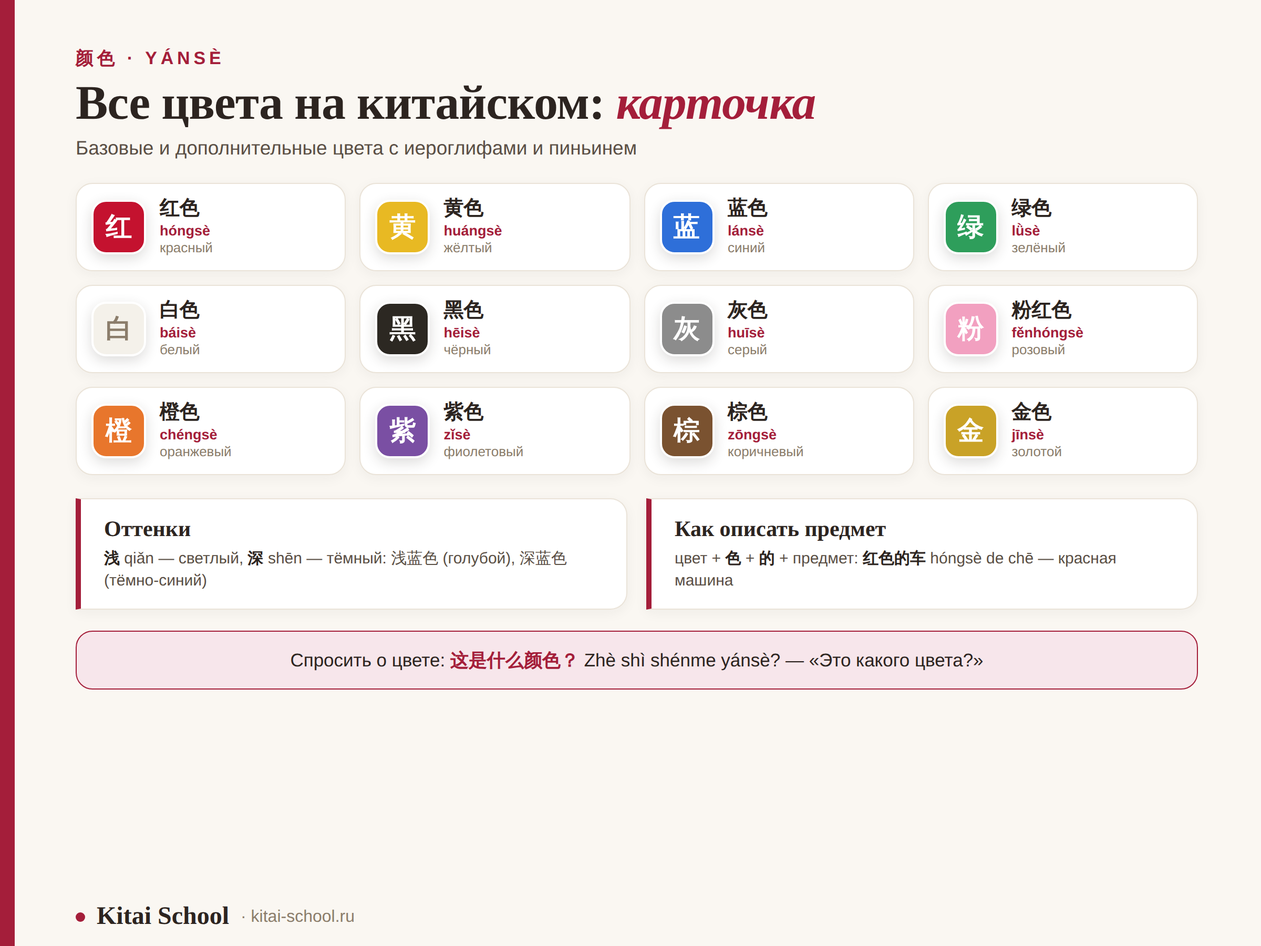
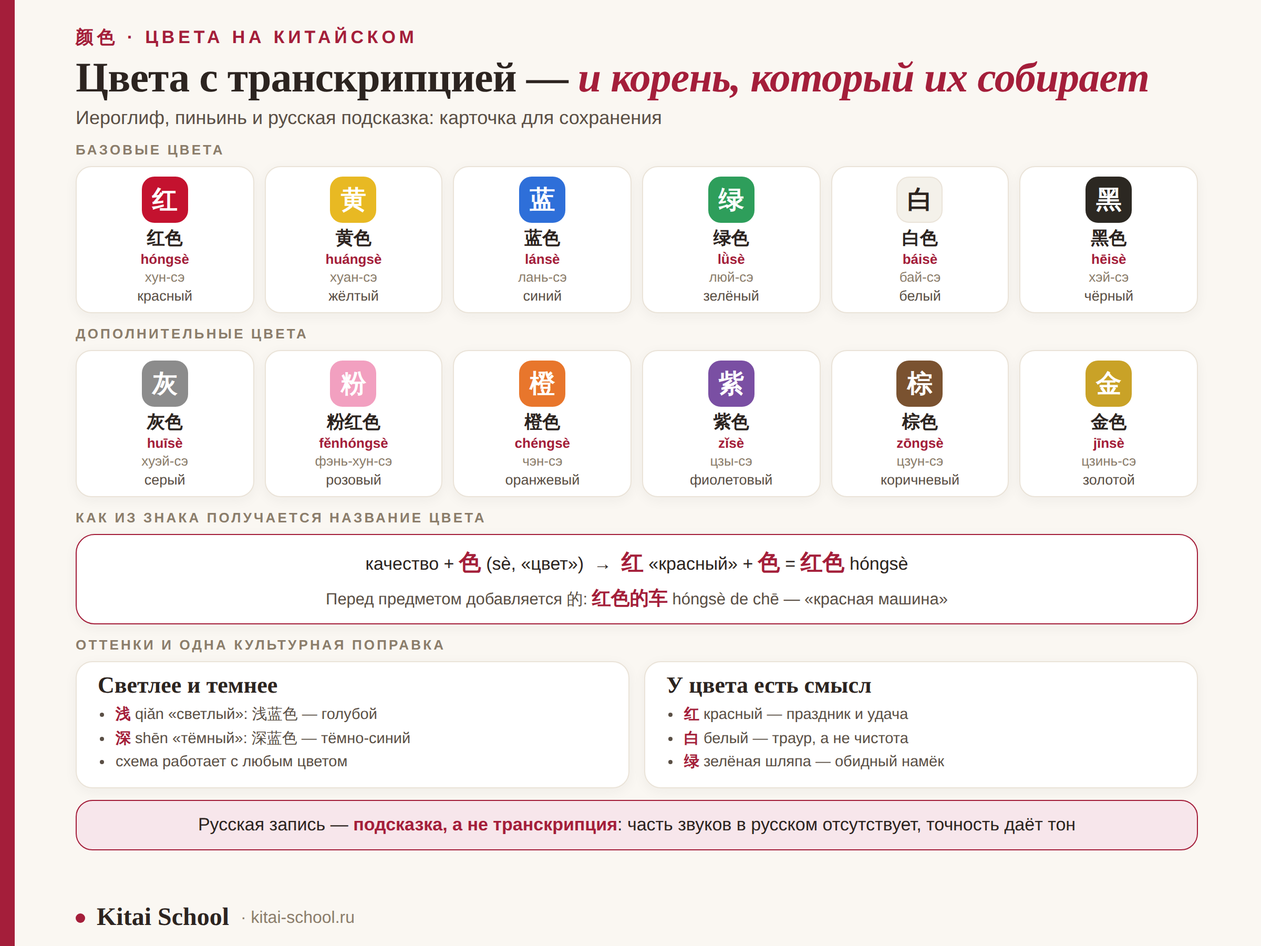
Цвета на китайском: русская транскрипция в таблицах, новые мета и картинки
Claude-Session: https://claude.ai/code/session_017dS7Wuw6MNB5fnZSr6hVh2

diff --git a/content/blog/cveta-na-kitajskom.html b/content/blog/cveta-na-kitajskom.html
@@ -4,19 +4,19 @@
 <meta charset="utf-8">
 <meta name="viewport" content="width=device-width, initial-scale=1">
 
-<title>Цвета на китайском языке: словарь с иероглифами и пиньинем</title>
-<meta name="description" content="Все цвета на китайском с иероглифами, пиньинем и переводом: белый, синий, красный и десятки оттенков. Таблица-карточка для сохранения, суффикс 色, светлые и тёмные оттенки с 浅 и 深 и как описывать предметы по цвету.">
+<title>Цвета на китайском с транскрипцией: как устроены названия через корень 色</title>
+<meta name="description" content="Большинство цветов в китайском образуются по схеме «качество + 色 (sè, цвет)»: 红色 красный, 蓝色 синий. Разбираем основные цвета с иероглифами и пиньинем, объясняем эту прозрачную логику и касаемся оттенков, у которых есть своя символика. С примерами.">
 <meta name="robots" content="index, follow, max-image-preview:large, max-snippet:-1">
 <meta name="author" content="Юлия Горяина">
-<meta name="keywords" content="цвета на китайском, все цвета на китайском, цвета на китайском языке с переводом, цвета на китайском иероглифы, белый по китайски, синий на китайском, красный на китайском">
+<meta name="keywords" content="цвета на китайском с транскрипцией, белый на китайском, цвета на китайском, цвета на китайском языке с переводом, цвета на китайском иероглифы, синий на китайском, красный на китайском">
 <meta name="theme-color" content="#A41E3A">
 <link rel="canonical" href="https://kitai-school.ru/article/cveta-na-kitajskom">
 
 <meta property="og:type" content="article">
 <meta property="og:site_name" content="Kitai School">
 <meta property="og:locale" content="ru_RU">
-<meta property="og:title" content="Цвета на китайском языке: словарь с иероглифами и пиньинем">
-<meta property="og:description" content="Все цвета на китайском с иероглифами и пиньинем, таблица для сохранения, суффикс 色, оттенки с 浅 и 深 и как описывать предметы по цвету.">
+<meta property="og:title" content="Цвета на китайском с транскрипцией">
+<meta property="og:description" content="Иероглиф, пиньинь и русская подсказка для каждого цвета — плюс логика корня 色, из которой собираются все названия.">
 <meta property="og:url" content="https://kitai-school.ru/article/cveta-na-kitajskom">
 <meta property="article:published_time" content="2026-08-09">
 <meta property="article:modified_time" content="2026-08-09">
@@ -27,8 +27,8 @@
 <meta property="article:tag" content="иероглифы">
 
 <meta name="twitter:card" content="summary_large_image">
-<meta name="twitter:title" content="Цвета на китайском языке: словарь с иероглифами и пиньинем">
-<meta name="twitter:description" content="Все цвета на китайском: таблица с иероглифами и пиньинем, суффикс 色, оттенки 浅 и 深 и описание предметов по цвету.">
+<meta name="twitter:title" content="Цвета на китайском с транскрипцией">
+<meta name="twitter:description" content="Иероглиф, пиньинь и русская подсказка для каждого цвета — плюс логика корня 色, из которой собираются все названия.">
 
 <script type="application/ld+json">
 {
@@ -37,7 +37,7 @@
     {
       "@type": "BlogPosting",
       "@id": "https://kitai-school.ru/article/cveta-na-kitajskom#article",
-      "headline": "Полный словарь цветов на китайском языке с иероглифами и пиньинем",
+      "headline": "Цвета на китайском с транскрипцией: как устроены названия через корень 色",
       "description": "Базовые и сложные цвета на китайском с иероглифами, пиньинем и переводом, суффикс 色, светлые и тёмные оттенки с 浅 и 深, а также правила описания предметов по цвету.",
       "inLanguage": "ru",
       "datePublished": "2026-08-09",
@@ -235,7 +235,7 @@
 
 <article>
 <p class="eyebrow">Лексика и произношение</p>
-<h1>Полный словарь цветов на китайском языке <span class="italic">с иероглифами и пиньинем</span></h1>
+<h1>Цвета на китайском с транскрипцией: <span class="italic">как устроены названия через корень 色</span></h1>
 
 <div class="byline">
   <a href="https://kitai-school.ru/about" target="_blank" rel="noopener"><img src="https://static.tildacdn.com/tild3265-6431-4361-a262-343162663636/DSC01652_1.jpg" alt="Юлия Горяина, основатель Kitai School"></a>
@@ -253,7 +253,7 @@
   <p>Слово «цвет» — <b>颜色</b> (yánsè). Базовые цвета: 红 hóng (красный), 黄 huáng (жёлтый), 蓝 lán (синий), 绿 lǜ (зелёный), 白 bái (белый), 黑 hēi (чёрный). В речи к ним добавляют <b>色</b> (sè): 红 → <b>红色</b>. Оттенки получаются с помощью <b>浅</b> (qiǎn, светлый) и <b>深</b> (shēn, тёмный): 浅蓝色, 深蓝色. Перед предметом ставят 的: <b>红色的车</b> — «красная машина».</p>
 </div>
 
-<h2>Слово «цвет» и <span class="italic">главный суффикс 色</span></h2>
+<h2>Слово «цвет» и <span class="italic">главный корень 色</span></h2>
 <p>Начнём с базы. Само слово «цвет» — <b class="han-big">颜色</b> (yánsè). А чтобы спросить «какого цвета?», используют 什么颜色 (shénme yánsè):</p>
 <div class="ks-quote">
   <p>这是什么颜色？<br>Zhè shì shénme yánsè? — «Это какого цвета?»</p>
@@ -278,17 +278,18 @@
 <div class="table-wrap">
 <table>
   <caption>Основные цвета на китайском с иероглифами и пиньинем.</caption>
-  <thead><tr><th>Цвет</th><th>Иероглиф</th><th>Пиньинь</th><th>Полная форма</th></tr></thead>
+  <thead><tr><th>Цвет</th><th>Иероглиф</th><th>Пиньинь</th><th>Полная форма</th><th>Примерно по-русски</th></tr></thead>
   <tbody>
-    <tr><td><span class="sw" style="background:#C4122F"></span>Красный</td><td class="han-cell">红</td><td>hóng</td><td>红色 hóngsè</td></tr>
-    <tr><td><span class="sw" style="background:#E8B923"></span>Жёлтый</td><td class="han-cell">黄</td><td>huáng</td><td>黄色 huángsè</td></tr>
-    <tr><td><span class="sw" style="background:#2E6FD9"></span>Синий</td><td class="han-cell">蓝</td><td>lán</td><td>蓝色 lánsè</td></tr>
-    <tr><td><span class="sw" style="background:#2E9E5B"></span>Зелёный</td><td class="han-cell">绿</td><td>lǜ</td><td>绿色 lǜsè</td></tr>
-    <tr><td><span class="sw" style="background:#F4F1EA"></span>Белый</td><td class="han-cell">白</td><td>bái</td><td>白色 báisè</td></tr>
-    <tr><td><span class="sw" style="background:#2C2822"></span>Чёрный</td><td class="han-cell">黑</td><td>hēi</td><td>黑色 hēisè</td></tr>
+    <tr><td><span class="sw" style="background:#C4122F"></span>Красный</td><td class="han-cell">红</td><td>hóng</td><td>红色 hóngsè</td><td>хун-сэ</td></tr>
+    <tr><td><span class="sw" style="background:#E8B923"></span>Жёлтый</td><td class="han-cell">黄</td><td>huáng</td><td>黄色 huángsè</td><td>хуан-сэ</td></tr>
+    <tr><td><span class="sw" style="background:#2E6FD9"></span>Синий</td><td class="han-cell">蓝</td><td>lán</td><td>蓝色 lánsè</td><td>лань-сэ</td></tr>
+    <tr><td><span class="sw" style="background:#2E9E5B"></span>Зелёный</td><td class="han-cell">绿</td><td>lǜ</td><td>绿色 lǜsè</td><td>люй-сэ</td></tr>
+    <tr><td><span class="sw" style="background:#F4F1EA"></span>Белый</td><td class="han-cell">白</td><td>bái</td><td>白色 báisè</td><td>бай-сэ</td></tr>
+    <tr><td><span class="sw" style="background:#2C2822"></span>Чёрный</td><td class="han-cell">黑</td><td>hēi</td><td>黑色 hēisè</td><td>хэй-сэ</td></tr>
   </tbody>
 </table>
 </div>
+<p class="note">Колонка «примерно по-русски» — это <b>подсказка, а не транскрипция</b>. Части китайских звуков в русском просто нет, и точность даёт не запись буквами, а тон и живая речь. Пользуйтесь ею в первые дни, а дальше опирайтесь на пиньинь и слух. Само слово «цвет» — 颜色 (yánsè), по-русски примерно «янь-сэ».</p>
 <p class="note">Обратите внимание на <b>绿 (lǜ)</b>: здесь тот самый гласный <b>ü</b> — губы складываем для «у», а произносим «и». Если сказать «лу», получится другое слово. Как ставить такие звуки, разбирали в статье про <a href="https://kitai-school.ru/article/korrektirovka-proiznosheniya-v-kitayskom" target="_blank" rel="noopener">корректировку произношения</a>.</p>
 
 <h2>Дополнительные цвета <span class="italic">и оттенки</span></h2>
@@ -296,16 +297,16 @@
 <div class="table-wrap">
 <table>
   <caption>Дополнительные цвета: серый, розовый, оранжевый и другие.</caption>
-  <thead><tr><th>Цвет</th><th>Иероглифы</th><th>Пиньинь</th><th>Из чего состоит</th></tr></thead>
+  <thead><tr><th>Цвет</th><th>Иероглифы</th><th>Пиньинь</th><th>Примерно по-русски</th><th>Из чего состоит</th></tr></thead>
   <tbody>
-    <tr><td><span class="sw" style="background:#8C8C8C"></span>Серый</td><td class="han-cell">灰色</td><td>huīsè</td><td>灰 — «пепел, зола»</td></tr>
-    <tr><td><span class="sw" style="background:#F2A0C0"></span>Розовый</td><td class="han-cell">粉红色</td><td>fěnhóngsè</td><td>粉 «пудра» + 红 «красный»</td></tr>
-    <tr><td><span class="sw" style="background:#E8762C"></span>Оранжевый</td><td class="han-cell">橙色</td><td>chéngsè</td><td>橙 — «апельсин»</td></tr>
-    <tr><td><span class="sw" style="background:#7A4FA3"></span>Фиолетовый</td><td class="han-cell">紫色</td><td>zǐsè</td><td>紫 — «пурпур»</td></tr>
-    <tr><td><span class="sw" style="background:#7A5230"></span>Коричневый</td><td class="han-cell">棕色</td><td>zōngsè</td><td>棕 — «пальмовое волокно»</td></tr>
-    <tr><td><span class="sw" style="background:#C9A227"></span>Золотой</td><td class="han-cell">金色</td><td>jīnsè</td><td>金 — «золото, металл»</td></tr>
-    <tr><td><span class="sw" style="background:#B8BCC0"></span>Серебряный</td><td class="han-cell">银色</td><td>yínsè</td><td>银 — «серебро»</td></tr>
-    <tr><td><span class="sw" style="background:#8FBF6A"></span>Сине-зелёный</td><td class="han-cell">青色</td><td>qīngsè</td><td>青 — старое слово «синий/зелёный»</td></tr>
+    <tr><td><span class="sw" style="background:#8C8C8C"></span>Серый</td><td class="han-cell">灰色</td><td>huīsè</td><td>хуэй-сэ</td><td>灰 — «пепел, зола»</td></tr>
+    <tr><td><span class="sw" style="background:#F2A0C0"></span>Розовый</td><td class="han-cell">粉红色</td><td>fěnhóngsè</td><td>фэнь-хун-сэ</td><td>粉 «пудра» + 红 «красный»</td></tr>
+    <tr><td><span class="sw" style="background:#E8762C"></span>Оранжевый</td><td class="han-cell">橙色</td><td>chéngsè</td><td>чэн-сэ</td><td>橙 — «апельсин»</td></tr>
+    <tr><td><span class="sw" style="background:#7A4FA3"></span>Фиолетовый</td><td class="han-cell">紫色</td><td>zǐsè</td><td>цзы-сэ</td><td>紫 — «пурпур»</td></tr>
+    <tr><td><span class="sw" style="background:#7A5230"></span>Коричневый</td><td class="han-cell">棕色</td><td>zōngsè</td><td>цзун-сэ</td><td>棕 — «пальмовое волокно»</td></tr>
+    <tr><td><span class="sw" style="background:#C9A227"></span>Золотой</td><td class="han-cell">金色</td><td>jīnsè</td><td>цзинь-сэ</td><td>金 — «золото, металл»</td></tr>
+    <tr><td><span class="sw" style="background:#B8BCC0"></span>Серебряный</td><td class="han-cell">银色</td><td>yínsè</td><td>инь-сэ</td><td>银 — «серебро»</td></tr>
+    <tr><td><span class="sw" style="background:#8FBF6A"></span>Сине-зелёный</td><td class="han-cell">青色</td><td>qīngsè</td><td>цин-сэ</td><td>青 — старое слово «синий/зелёный»</td></tr>
   </tbody>
 </table>
 </div>

diff --git a/content/blog/cveta-na-kitajskom.TILDA.html b/content/blog/cveta-na-kitajskom.TILDA.html
@@ -124,7 +124,7 @@
     {
       "@type": "BlogPosting",
       "@id": "https://kitai-school.ru/article/cveta-na-kitajskom#article",
-      "headline": "Полный словарь цветов на китайском языке с иероглифами и пиньинем",
+      "headline": "Цвета на китайском с транскрипцией: как устроены названия через корень 色",
       "description": "Базовые и сложные цвета на китайском с иероглифами, пиньинем и переводом, суффикс 色, светлые и тёмные оттенки с 浅 и 深, а также правила описания предметов по цвету.",
       "inLanguage": "ru",
       "datePublished": "2026-08-09",
@@ -197,7 +197,7 @@
 
 <article>
 <p class="eyebrow">Лексика и произношение</p>
-<h1>Полный словарь цветов на китайском языке <span class="italic">с иероглифами и пиньинем</span></h1>
+<h1>Цвета на китайском с транскрипцией: <span class="italic">как устроены названия через корень 色</span></h1>
 
 <div class="byline">
   <a href="https://kitai-school.ru/about" target="_blank" rel="noopener"><img src="https://static.tildacdn.com/tild3265-6431-4361-a262-343162663636/DSC01652_1.jpg" alt="Юлия Горяина, основатель Kitai School"></a>
@@ -215,7 +215,7 @@
   <p>Слово «цвет» — <b>颜色</b> (yánsè). Базовые цвета: 红 hóng (красный), 黄 huáng (жёлтый), 蓝 lán (синий), 绿 lǜ (зелёный), 白 bái (белый), 黑 hēi (чёрный). В речи к ним добавляют <b>色</b> (sè): 红 → <b>红色</b>. Оттенки получаются с помощью <b>浅</b> (qiǎn, светлый) и <b>深</b> (shēn, тёмный): 浅蓝色, 深蓝色. Перед предметом ставят 的: <b>红色的车</b> — «красная машина».</p>
 </div>
 
-<h2>Слово «цвет» и <span class="italic">главный суффикс 色</span></h2>
+<h2>Слово «цвет» и <span class="italic">главный корень 色</span></h2>
 <p>Начнём с базы. Само слово «цвет» — <b class="han-big">颜色</b> (yánsè). А чтобы спросить «какого цвета?», используют 什么颜色 (shénme yánsè):</p>
 <div class="ks-quote">
   <p>这是什么颜色？<br>Zhè shì shénme yánsè? — «Это какого цвета?»</p>
@@ -240,17 +240,18 @@
 <div class="table-wrap">
 <table>
   <caption>Основные цвета на китайском с иероглифами и пиньинем.</caption>
-  <thead><tr><th>Цвет</th><th>Иероглиф</th><th>Пиньинь</th><th>Полная форма</th></tr></thead>
+  <thead><tr><th>Цвет</th><th>Иероглиф</th><th>Пиньинь</th><th>Полная форма</th><th>Примерно по-русски</th></tr></thead>
   <tbody>
-    <tr><td><span class="sw" style="background:#C4122F"></span>Красный</td><td class="han-cell">红</td><td>hóng</td><td>红色 hóngsè</td></tr>
-    <tr><td><span class="sw" style="background:#E8B923"></span>Жёлтый</td><td class="han-cell">黄</td><td>huáng</td><td>黄色 huángsè</td></tr>
-    <tr><td><span class="sw" style="background:#2E6FD9"></span>Синий</td><td class="han-cell">蓝</td><td>lán</td><td>蓝色 lánsè</td></tr>
-    <tr><td><span class="sw" style="background:#2E9E5B"></span>Зелёный</td><td class="han-cell">绿</td><td>lǜ</td><td>绿色 lǜsè</td></tr>
-    <tr><td><span class="sw" style="background:#F4F1EA"></span>Белый</td><td class="han-cell">白</td><td>bái</td><td>白色 báisè</td></tr>
-    <tr><td><span class="sw" style="background:#2C2822"></span>Чёрный</td><td class="han-cell">黑</td><td>hēi</td><td>黑色 hēisè</td></tr>
+    <tr><td><span class="sw" style="background:#C4122F"></span>Красный</td><td class="han-cell">红</td><td>hóng</td><td>红色 hóngsè</td><td>хун-сэ</td></tr>
+    <tr><td><span class="sw" style="background:#E8B923"></span>Жёлтый</td><td class="han-cell">黄</td><td>huáng</td><td>黄色 huángsè</td><td>хуан-сэ</td></tr>
+    <tr><td><span class="sw" style="background:#2E6FD9"></span>Синий</td><td class="han-cell">蓝</td><td>lán</td><td>蓝色 lánsè</td><td>лань-сэ</td></tr>
+    <tr><td><span class="sw" style="background:#2E9E5B"></span>Зелёный</td><td class="han-cell">绿</td><td>lǜ</td><td>绿色 lǜsè</td><td>люй-сэ</td></tr>
+    <tr><td><span class="sw" style="background:#F4F1EA"></span>Белый</td><td class="han-cell">白</td><td>bái</td><td>白色 báisè</td><td>бай-сэ</td></tr>
+    <tr><td><span class="sw" style="background:#2C2822"></span>Чёрный</td><td class="han-cell">黑</td><td>hēi</td><td>黑色 hēisè</td><td>хэй-сэ</td></tr>
   </tbody>
 </table>
 </div>
+<p class="note">Колонка «примерно по-русски» — это <b>подсказка, а не транскрипция</b>. Части китайских звуков в русском просто нет, и точность даёт не запись буквами, а тон и живая речь. Пользуйтесь ею в первые дни, а дальше опирайтесь на пиньинь и слух. Само слово «цвет» — 颜色 (yánsè), по-русски примерно «янь-сэ».</p>
 <p class="note">Обратите внимание на <b>绿 (lǜ)</b>: здесь тот самый гласный <b>ü</b> — губы складываем для «у», а произносим «и». Если сказать «лу», получится другое слово. Как ставить такие звуки, разбирали в статье про <a href="https://kitai-school.ru/article/korrektirovka-proiznosheniya-v-kitayskom" target="_blank" rel="noopener">корректировку произношения</a>.</p>
 
 <h2>Дополнительные цвета <span class="italic">и оттенки</span></h2>
@@ -258,16 +259,16 @@
 <div class="table-wrap">
 <table>
   <caption>Дополнительные цвета: серый, розовый, оранжевый и другие.</caption>
-  <thead><tr><th>Цвет</th><th>Иероглифы</th><th>Пиньинь</th><th>Из чего состоит</th></tr></thead>
+  <thead><tr><th>Цвет</th><th>Иероглифы</th><th>Пиньинь</th><th>Примерно по-русски</th><th>Из чего состоит</th></tr></thead>
   <tbody>
-    <tr><td><span class="sw" style="background:#8C8C8C"></span>Серый</td><td class="han-cell">灰色</td><td>huīsè</td><td>灰 — «пепел, зола»</td></tr>
-    <tr><td><span class="sw" style="background:#F2A0C0"></span>Розовый</td><td class="han-cell">粉红色</td><td>fěnhóngsè</td><td>粉 «пудра» + 红 «красный»</td></tr>
-    <tr><td><span class="sw" style="background:#E8762C"></span>Оранжевый</td><td class="han-cell">橙色</td><td>chéngsè</td><td>橙 — «апельсин»</td></tr>
-    <tr><td><span class="sw" style="background:#7A4FA3"></span>Фиолетовый</td><td class="han-cell">紫色</td><td>zǐsè</td><td>紫 — «пурпур»</td></tr>
-    <tr><td><span class="sw" style="background:#7A5230"></span>Коричневый</td><td class="han-cell">棕色</td><td>zōngsè</td><td>棕 — «пальмовое волокно»</td></tr>
-    <tr><td><span class="sw" style="background:#C9A227"></span>Золотой</td><td class="han-cell">金色</td><td>jīnsè</td><td>金 — «золото, металл»</td></tr>
-    <tr><td><span class="sw" style="background:#B8BCC0"></span>Серебряный</td><td class="han-cell">银色</td><td>yínsè</td><td>银 — «серебро»</td></tr>
-    <tr><td><span class="sw" style="background:#8FBF6A"></span>Сине-зелёный</td><td class="han-cell">青色</td><td>qīngsè</td><td>青 — старое слово «синий/зелёный»</td></tr>
+    <tr><td><span class="sw" style="background:#8C8C8C"></span>Серый</td><td class="han-cell">灰色</td><td>huīsè</td><td>хуэй-сэ</td><td>灰 — «пепел, зола»</td></tr>
+    <tr><td><span class="sw" style="background:#F2A0C0"></span>Розовый</td><td class="han-cell">粉红色</td><td>fěnhóngsè</td><td>фэнь-хун-сэ</td><td>粉 «пудра» + 红 «красный»</td></tr>
+    <tr><td><span class="sw" style="background:#E8762C"></span>Оранжевый</td><td class="han-cell">橙色</td><td>chéngsè</td><td>чэн-сэ</td><td>橙 — «апельсин»</td></tr>
+    <tr><td><span class="sw" style="background:#7A4FA3"></span>Фиолетовый</td><td class="han-cell">紫色</td><td>zǐsè</td><td>цзы-сэ</td><td>紫 — «пурпур»</td></tr>
+    <tr><td><span class="sw" style="background:#7A5230"></span>Коричневый</td><td class="han-cell">棕色</td><td>zōngsè</td><td>цзун-сэ</td><td>棕 — «пальмовое волокно»</td></tr>
+    <tr><td><span class="sw" style="background:#C9A227"></span>Золотой</td><td class="han-cell">金色</td><td>jīnsè</td><td>цзинь-сэ</td><td>金 — «золото, металл»</td></tr>
+    <tr><td><span class="sw" style="background:#B8BCC0"></span>Серебряный</td><td class="han-cell">银色</td><td>yínsè</td><td>инь-сэ</td><td>银 — «серебро»</td></tr>
+    <tr><td><span class="sw" style="background:#8FBF6A"></span>Сине-зелёный</td><td class="han-cell">青色</td><td>qīngsè</td><td>цин-сэ</td><td>青 — старое слово «синий/зелёный»</td></tr>
   </tbody>
 </table>
 </div>

diff --git a/content/blog/cveta-na-kitajskom.TILDA-BLOCK.html b/content/blog/cveta-na-kitajskom.TILDA-BLOCK.html
@@ -126,7 +126,7 @@
 
 <article>
 <p class="eyebrow">Лексика и произношение</p>
-<h1>Полный словарь цветов на китайском языке <span class="italic">с иероглифами и пиньинем</span></h1>
+<h1>Цвета на китайском с транскрипцией: <span class="italic">как устроены названия через корень 色</span></h1>
 
 <div class="byline">
   <a href="https://kitai-school.ru/about" target="_blank" rel="noopener"><img src="https://static.tildacdn.com/tild3265-6431-4361-a262-343162663636/DSC01652_1.jpg" alt="Юлия Горяина, основатель Kitai School"></a>
@@ -144,7 +144,7 @@
   <p>Слово «цвет» — <b>颜色</b> (yánsè). Базовые цвета: 红 hóng (красный), 黄 huáng (жёлтый), 蓝 lán (синий), 绿 lǜ (зелёный), 白 bái (белый), 黑 hēi (чёрный). В речи к ним добавляют <b>色</b> (sè): 红 → <b>红色</b>. Оттенки получаются с помощью <b>浅</b> (qiǎn, светлый) и <b>深</b> (shēn, тёмный): 浅蓝色, 深蓝色. Перед предметом ставят 的: <b>红色的车</b> — «красная машина».</p>
 </div>
 
-<h2>Слово «цвет» и <span class="italic">главный суффикс 色</span></h2>
+<h2>Слово «цвет» и <span class="italic">главный корень 色</span></h2>
 <p>Начнём с базы. Само слово «цвет» — <b class="han-big">颜色</b> (yánsè). А чтобы спросить «какого цвета?», используют 什么颜色 (shénme yánsè):</p>
 <div class="ks-quote">
   <p>这是什么颜色？<br>Zhè shì shénme yánsè? — «Это какого цвета?»</p>
@@ -169,17 +169,18 @@
 <div class="table-wrap">
 <table>
   <caption>Основные цвета на китайском с иероглифами и пиньинем.</caption>
-  <thead><tr><th>Цвет</th><th>Иероглиф</th><th>Пиньинь</th><th>Полная форма</th></tr></thead>
+  <thead><tr><th>Цвет</th><th>Иероглиф</th><th>Пиньинь</th><th>Полная форма</th><th>Примерно по-русски</th></tr></thead>
   <tbody>
-    <tr><td><span class="sw" style="background:#C4122F"></span>Красный</td><td class="han-cell">红</td><td>hóng</td><td>红色 hóngsè</td></tr>
-    <tr><td><span class="sw" style="background:#E8B923"></span>Жёлтый</td><td class="han-cell">黄</td><td>huáng</td><td>黄色 huángsè</td></tr>
-    <tr><td><span class="sw" style="background:#2E6FD9"></span>Синий</td><td class="han-cell">蓝</td><td>lán</td><td>蓝色 lánsè</td></tr>
-    <tr><td><span class="sw" style="background:#2E9E5B"></span>Зелёный</td><td class="han-cell">绿</td><td>lǜ</td><td>绿色 lǜsè</td></tr>
-    <tr><td><span class="sw" style="background:#F4F1EA"></span>Белый</td><td class="han-cell">白</td><td>bái</td><td>白色 báisè</td></tr>
-    <tr><td><span class="sw" style="background:#2C2822"></span>Чёрный</td><td class="han-cell">黑</td><td>hēi</td><td>黑色 hēisè</td></tr>
+    <tr><td><span class="sw" style="background:#C4122F"></span>Красный</td><td class="han-cell">红</td><td>hóng</td><td>红色 hóngsè</td><td>хун-сэ</td></tr>
+    <tr><td><span class="sw" style="background:#E8B923"></span>Жёлтый</td><td class="han-cell">黄</td><td>huáng</td><td>黄色 huángsè</td><td>хуан-сэ</td></tr>
+    <tr><td><span class="sw" style="background:#2E6FD9"></span>Синий</td><td class="han-cell">蓝</td><td>lán</td><td>蓝色 lánsè</td><td>лань-сэ</td></tr>
+    <tr><td><span class="sw" style="background:#2E9E5B"></span>Зелёный</td><td class="han-cell">绿</td><td>lǜ</td><td>绿色 lǜsè</td><td>люй-сэ</td></tr>
+    <tr><td><span class="sw" style="background:#F4F1EA"></span>Белый</td><td class="han-cell">白</td><td>bái</td><td>白色 báisè</td><td>бай-сэ</td></tr>
+    <tr><td><span class="sw" style="background:#2C2822"></span>Чёрный</td><td class="han-cell">黑</td><td>hēi</td><td>黑色 hēisè</td><td>хэй-сэ</td></tr>
   </tbody>
 </table>
 </div>
+<p class="note">Колонка «примерно по-русски» — это <b>подсказка, а не транскрипция</b>. Части китайских звуков в русском просто нет, и точность даёт не запись буквами, а тон и живая речь. Пользуйтесь ею в первые дни, а дальше опирайтесь на пиньинь и слух. Само слово «цвет» — 颜色 (yánsè), по-русски примерно «янь-сэ».</p>
 <p class="note">Обратите внимание на <b>绿 (lǜ)</b>: здесь тот самый гласный <b>ü</b> — губы складываем для «у», а произносим «и». Если сказать «лу», получится другое слово. Как ставить такие звуки, разбирали в статье про <a href="https://kitai-school.ru/article/korrektirovka-proiznosheniya-v-kitayskom" target="_blank" rel="noopener">корректировку произношения</a>.</p>
 
 <h2>Дополнительные цвета <span class="italic">и оттенки</span></h2>
@@ -187,16 +188,16 @@
 <div class="table-wrap">
 <table>
   <caption>Дополнительные цвета: серый, розовый, оранжевый и другие.</caption>
-  <thead><tr><th>Цвет</th><th>Иероглифы</th><th>Пиньинь</th><th>Из чего состоит</th></tr></thead>
+  <thead><tr><th>Цвет</th><th>Иероглифы</th><th>Пиньинь</th><th>Примерно по-русски</th><th>Из чего состоит</th></tr></thead>
   <tbody>
-    <tr><td><span class="sw" style="background:#8C8C8C"></span>Серый</td><td class="han-cell">灰色</td><td>huīsè</td><td>灰 — «пепел, зола»</td></tr>
-    <tr><td><span class="sw" style="background:#F2A0C0"></span>Розовый</td><td class="han-cell">粉红色</td><td>fěnhóngsè</td><td>粉 «пудра» + 红 «красный»</td></tr>
-    <tr><td><span class="sw" style="background:#E8762C"></span>Оранжевый</td><td class="han-cell">橙色</td><td>chéngsè</td><td>橙 — «апельсин»</td></tr>
-    <tr><td><span class="sw" style="background:#7A4FA3"></span>Фиолетовый</td><td class="han-cell">紫色</td><td>zǐsè</td><td>紫 — «пурпур»</td></tr>
-    <tr><td><span class="sw" style="background:#7A5230"></span>Коричневый</td><td class="han-cell">棕色</td><td>zōngsè</td><td>棕 — «пальмовое волокно»</td></tr>
-    <tr><td><span class="sw" style="background:#C9A227"></span>Золотой</td><td class="han-cell">金色</td><td>jīnsè</td><td>金 — «золото, металл»</td></tr>
-    <tr><td><span class="sw" style="background:#B8BCC0"></span>Серебряный</td><td class="han-cell">银色</td><td>yínsè</td><td>银 — «серебро»</td></tr>
-    <tr><td><span class="sw" style="background:#8FBF6A"></span>Сине-зелёный</td><td class="han-cell">青色</td><td>qīngsè</td><td>青 — старое слово «синий/зелёный»</td></tr>
+    <tr><td><span class="sw" style="background:#8C8C8C"></span>Серый</td><td class="han-cell">灰色</td><td>huīsè</td><td>хуэй-сэ</td><td>灰 — «пепел, зола»</td></tr>
+    <tr><td><span class="sw" style="background:#F2A0C0"></span>Розовый</td><td class="han-cell">粉红色</td><td>fěnhóngsè</td><td>фэнь-хун-сэ</td><td>粉 «пудра» + 红 «красный»</td></tr>
+    <tr><td><span class="sw" style="background:#E8762C"></span>Оранжевый</td><td class="han-cell">橙色</td><td>chéngsè</td><td>чэн-сэ</td><td>橙 — «апельсин»</td></tr>
+    <tr><td><span class="sw" style="background:#7A4FA3"></span>Фиолетовый</td><td class="han-cell">紫色</td><td>zǐsè</td><td>цзы-сэ</td><td>紫 — «пурпур»</td></tr>
+    <tr><td><span class="sw" style="background:#7A5230"></span>Коричневый</td><td class="han-cell">棕色</td><td>zōngsè</td><td>цзун-сэ</td><td>棕 — «пальмовое волокно»</td></tr>
+    <tr><td><span class="sw" style="background:#C9A227"></span>Золотой</td><td class="han-cell">金色</td><td>jīnsè</td><td>цзинь-сэ</td><td>金 — «золото, металл»</td></tr>
+    <tr><td><span class="sw" style="background:#B8BCC0"></span>Серебряный</td><td class="han-cell">银色</td><td>yínsè</td><td>инь-сэ</td><td>银 — «серебро»</td></tr>
+    <tr><td><span class="sw" style="background:#8FBF6A"></span>Сине-зелёный</td><td class="han-cell">青色</td><td>qīngsè</td><td>цин-сэ</td><td>青 — старое слово «синий/зелёный»</td></tr>
   </tbody>
 </table>
 </div>

diff --git a/content/blog/cveta-na-kitajskom.TILDA-HEAD.html b/content/blog/cveta-na-kitajskom.TILDA-HEAD.html
@@ -1,19 +1,19 @@
 <meta charset="utf-8">
 <meta name="viewport" content="width=device-width, initial-scale=1">
 
-<title>Цвета на китайском языке: словарь с иероглифами и пиньинем</title>
-<meta name="description" content="Все цвета на китайском с иероглифами, пиньинем и переводом: белый, синий, красный и десятки оттенков. Таблица-карточка для сохранения, суффикс 色, светлые и тёмные оттенки с 浅 и 深 и как описывать предметы по цвету.">
+<title>Цвета на китайском с транскрипцией: как устроены названия через корень 色</title>
+<meta name="description" content="Большинство цветов в китайском образуются по схеме «качество + 色 (sè, цвет)»: 红色 красный, 蓝色 синий. Разбираем основные цвета с иероглифами и пиньинем, объясняем эту прозрачную логику и касаемся оттенков, у которых есть своя символика. С примерами.">
 <meta name="robots" content="index, follow, max-image-preview:large, max-snippet:-1">
 <meta name="author" content="Юлия Горяина">
-<meta name="keywords" content="цвета на китайском, все цвета на китайском, цвета на китайском языке с переводом, цвета на китайском иероглифы, белый по китайски, синий на китайском, красный на китайском">
+<meta name="keywords" content="цвета на китайском с транскрипцией, белый на китайском, цвета на китайском, цвета на китайском языке с переводом, цвета на китайском иероглифы, синий на китайском, красный на китайском">
 <meta name="theme-color" content="#A41E3A">
 <link rel="canonical" href="https://kitai-school.ru/article/cveta-na-kitajskom">
 
 <meta property="og:type" content="article">
 <meta property="og:site_name" content="Kitai School">
 <meta property="og:locale" content="ru_RU">
-<meta property="og:title" content="Цвета на китайском языке: словарь с иероглифами и пиньинем">
-<meta property="og:description" content="Все цвета на китайском с иероглифами и пиньинем, таблица для сохранения, суффикс 色, оттенки с 浅 и 深 и как описывать предметы по цвету.">
+<meta property="og:title" content="Цвета на китайском с транскрипцией">
+<meta property="og:description" content="Иероглиф, пиньинь и русская подсказка для каждого цвета — плюс логика корня 色, из которой собираются все названия.">
 <meta property="og:url" content="https://kitai-school.ru/article/cveta-na-kitajskom">
 <meta property="article:published_time" content="2026-08-09">
 <meta property="article:modified_time" content="2026-08-09">
@@ -24,8 +24,8 @@
 <meta property="article:tag" content="иероглифы">
 
 <meta name="twitter:card" content="summary_large_image">
-<meta name="twitter:title" content="Цвета на китайском языке: словарь с иероглифами и пиньинем">
-<meta name="twitter:description" content="Все цвета на китайском: таблица с иероглифами и пиньинем, суффикс 色, оттенки 浅 и 深 и описание предметов по цвету.">
+<meta name="twitter:title" content="Цвета на китайском с транскрипцией">
+<meta name="twitter:description" content="Иероглиф, пиньинь и русская подсказка для каждого цвета — плюс логика корня 色, из которой собираются все названия.">
 
 <script type="application/ld+json">
 {
@@ -34,7 +34,7 @@
     {
       "@type": "BlogPosting",
       "@id": "https://kitai-school.ru/article/cveta-na-kitajskom#article",
-      "headline": "Полный словарь цветов на китайском языке с иероглифами и пиньинем",
+      "headline": "Цвета на китайском с транскрипцией: как устроены названия через корень 色",
       "description": "Базовые и сложные цвета на китайском с иероглифами, пиньинем и переводом, суффикс 色, светлые и тёмные оттенки с 浅 и 深, а также правила описания предметов по цвету.",
       "inLanguage": "ru",
       "datePublished": "2026-08-09",

diff --git a/content/tz-cveta-na-kitajskom.md b/content/tz-cveta-na-kitajskom.md
@@ -1,8 +1,8 @@
-# ТЗ на статью: «Все цвета на китайском»
+# ТЗ на статью: «Цвета на китайском с транскрипцией»
 
 > **Методика:** `tripl` + надстройка «Типлеты-Китай-Скул» + реестр инфо-триплетов.
 > **Тип:** информационно-справочная (лексика). Раздел «Лексика и произношение».
-> **Интент:** словарь цветов с иероглифами, пиньинем и переводом + грамматика описания предметов. Аудитория: начинающие.
+> **Интент:** словарь цветов с иероглифами, пиньинем и русской подсказкой + логика корня 色. Аудитория: начинающие.
 > **Отстройка от статьи «Значение цветов в Китае»:** там — СИМВОЛИКА и культура; здесь — ЛЕКСИКА и грамматика (色, 的, 浅/深). Взаимная перелинковка.
 > **Картинки:** hero «颜色» с 4 цветными плитками + инфографика-карточка «Все цвета на китайском» (в СЕРЕДИНУ).
 > **Оформление:** блок «Из личного опыта» — в СЕРЕДИНУ. Живой, простой язык.
@@ -12,16 +12,16 @@
 ## 1. Сущность и запросы
 
 - **Главная сущность:** названия цветов в китайском языке (лексика + конструкции).
-- **Ключевые запросы:** цвета на китайском · все цвета на китайском · цвета на китайском языке с переводом · цвета на китайском иероглифы · белый по китайски · синий на китайском.
-- **Ключевой нюанс (отстройка):** не просто список, а система: суффикс 色 делает знак названием цвета; оттенки строятся через 浅/深, а не отдельными словами; конструкция «цвет + 色 + 的 + предмет» — то, из-за чего новичков слышно как иностранцев; 青 — исторически «сине-зелёный».
+- **Ключевые запросы:** цвета на китайском с транскрипцией · белый на китайском · цвета на китайском · цвета на китайском языке с переводом · цвета на китайском иероглифы · синий на китайском.
+- **Ключевой нюанс (отстройка):** не просто список, а система: суффикс 色 делает знак названием цвета; оттенки строятся через 浅/深, а не отдельными словами; конструкция «цвет + 色 + 的 + предмет» — то, из-за чего новичков слышно как иностранцев; 青 — исторически «сине-зелёный». Плюс **русская подсказка к каждому цвету** и честная оговорка, что это подсказка, а не транскрипция: части звуков в русском нет, точность даёт тон.
 
 ## 2. Мета-теги
 
 | Поле | Значение |
 |---|---|
-| **title** | Цвета на китайском языке: словарь с иероглифами и пиньинем |
-| **description** | Все цвета на китайском с иероглифами, пиньинем и переводом: белый, синий, красный и десятки оттенков. Таблица-карточка для сохранения, суффикс 色, светлые и тёмные оттенки с 浅 и 深 и как описывать предметы по цвету. |
-| **H1** | Полный словарь цветов на китайском языке с иероглифами и пиньинем |
+| **title** | Цвета на китайском с транскрипцией: как устроены названия через корень 色 |
+| **description** | Большинство цветов в китайском образуются по схеме «качество + 色 (sè, цвет)»: 红色 красный, 蓝色 синий. Разбираем основные цвета с иероглифами и пиньинем, объясняем эту прозрачную логику и касаемся оттенков, у которых есть своя символика. С примерами. |
+| **H1** | Цвета на китайском с транскрипцией: как устроены названия через корень 色 |
 | **canonical** | `https://kitai-school.ru/article/cveta-na-kitajskom` |
 | **og:image** | брендовая карточка «颜色» с плитками 红/黄/蓝/绿 |
 
